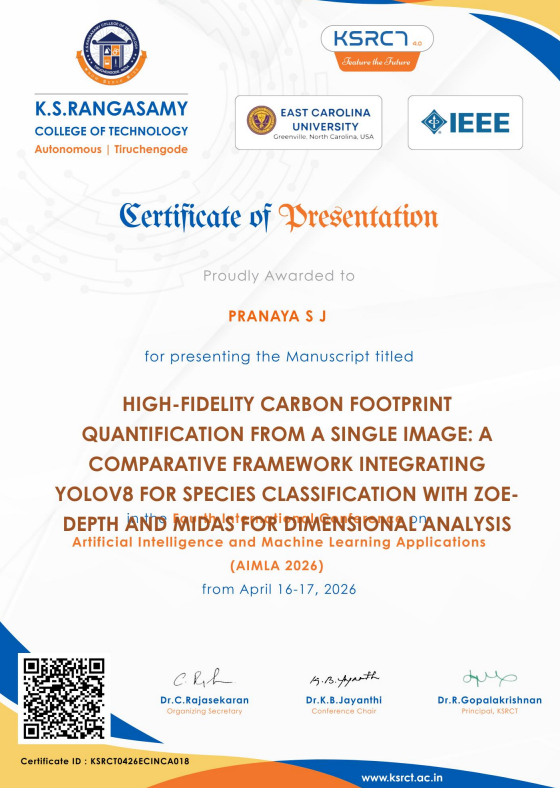
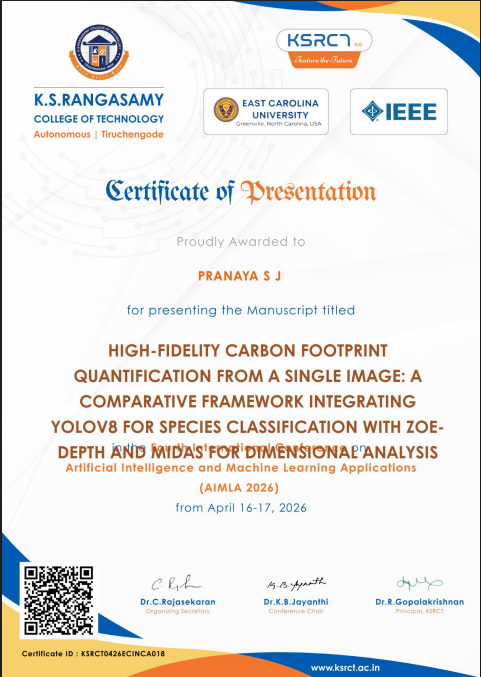
feat: swap Experience card images to map Hackathon Runner-up with group discussion photo and IEEE Researcher with presentation certificate

diff --git a/src/sections/Experience.tsx b/src/sections/Experience.tsx
@@ -28,7 +28,7 @@ const experienceList: ExperienceCardData[] = [
     company: 'IEEE AIMLA & ICCRTEE',
     period: '2025 – 2026',
     tags: ['IEEE', 'Publications', 'XAI'],
-    image: '/images/experience_2nd.png',
+    image: '/images/ieee_presentation.png',
     description: 'Published peer-reviewed research on high-fidelity carbon quantification (YOLOv8 + ZoE-Depth) and vehicle confirmation passing networks (Augmentations + Gradio) in IEEE proceedings.',
   },
   {
@@ -37,7 +37,7 @@ const experienceList: ExperienceCardData[] = [
     company: 'HACKARE 2.0',
     period: '2024',
     tags: ['ML', 'FastAPI', 'AWS Amplify'],
-    image: '/images/hackathon.png',
+    image: '/images/hackathon_group.png',
     description: 'Co-built a personalized educational application for under-resourced schools within a highly competitive time limit. Implemented core ML features.',
   },
   {
